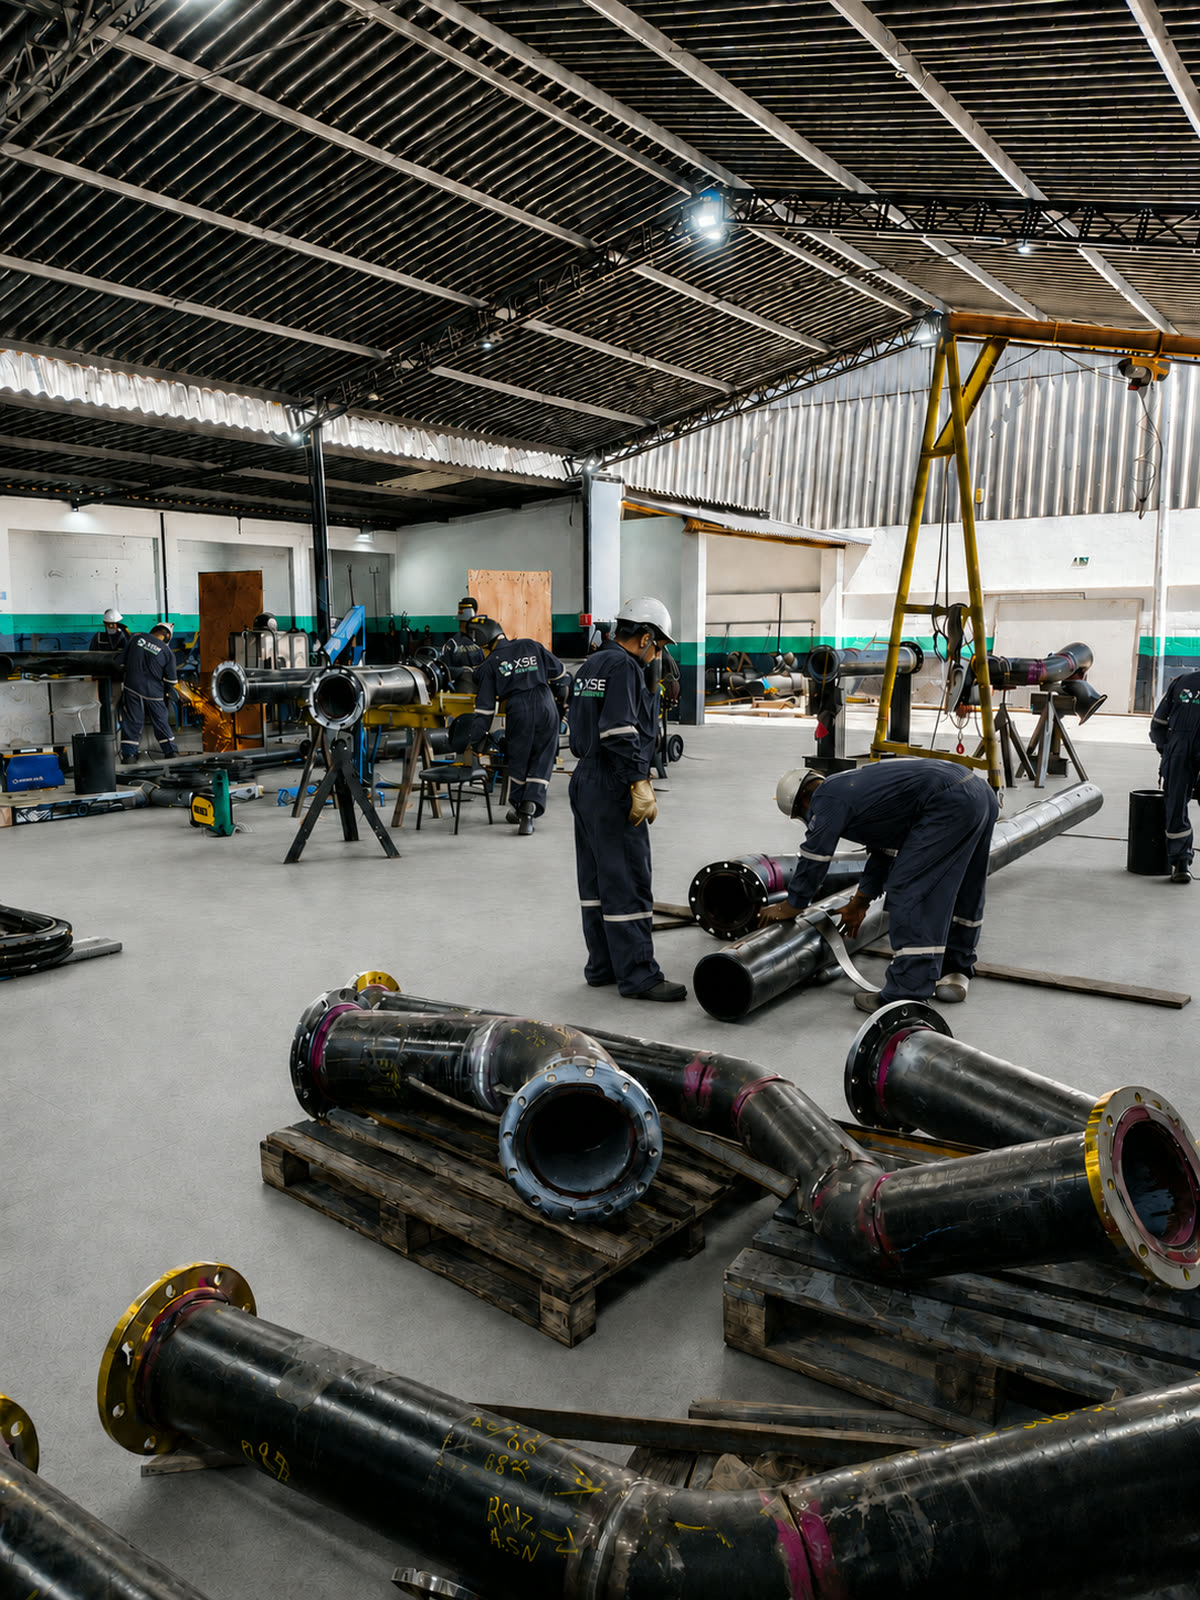
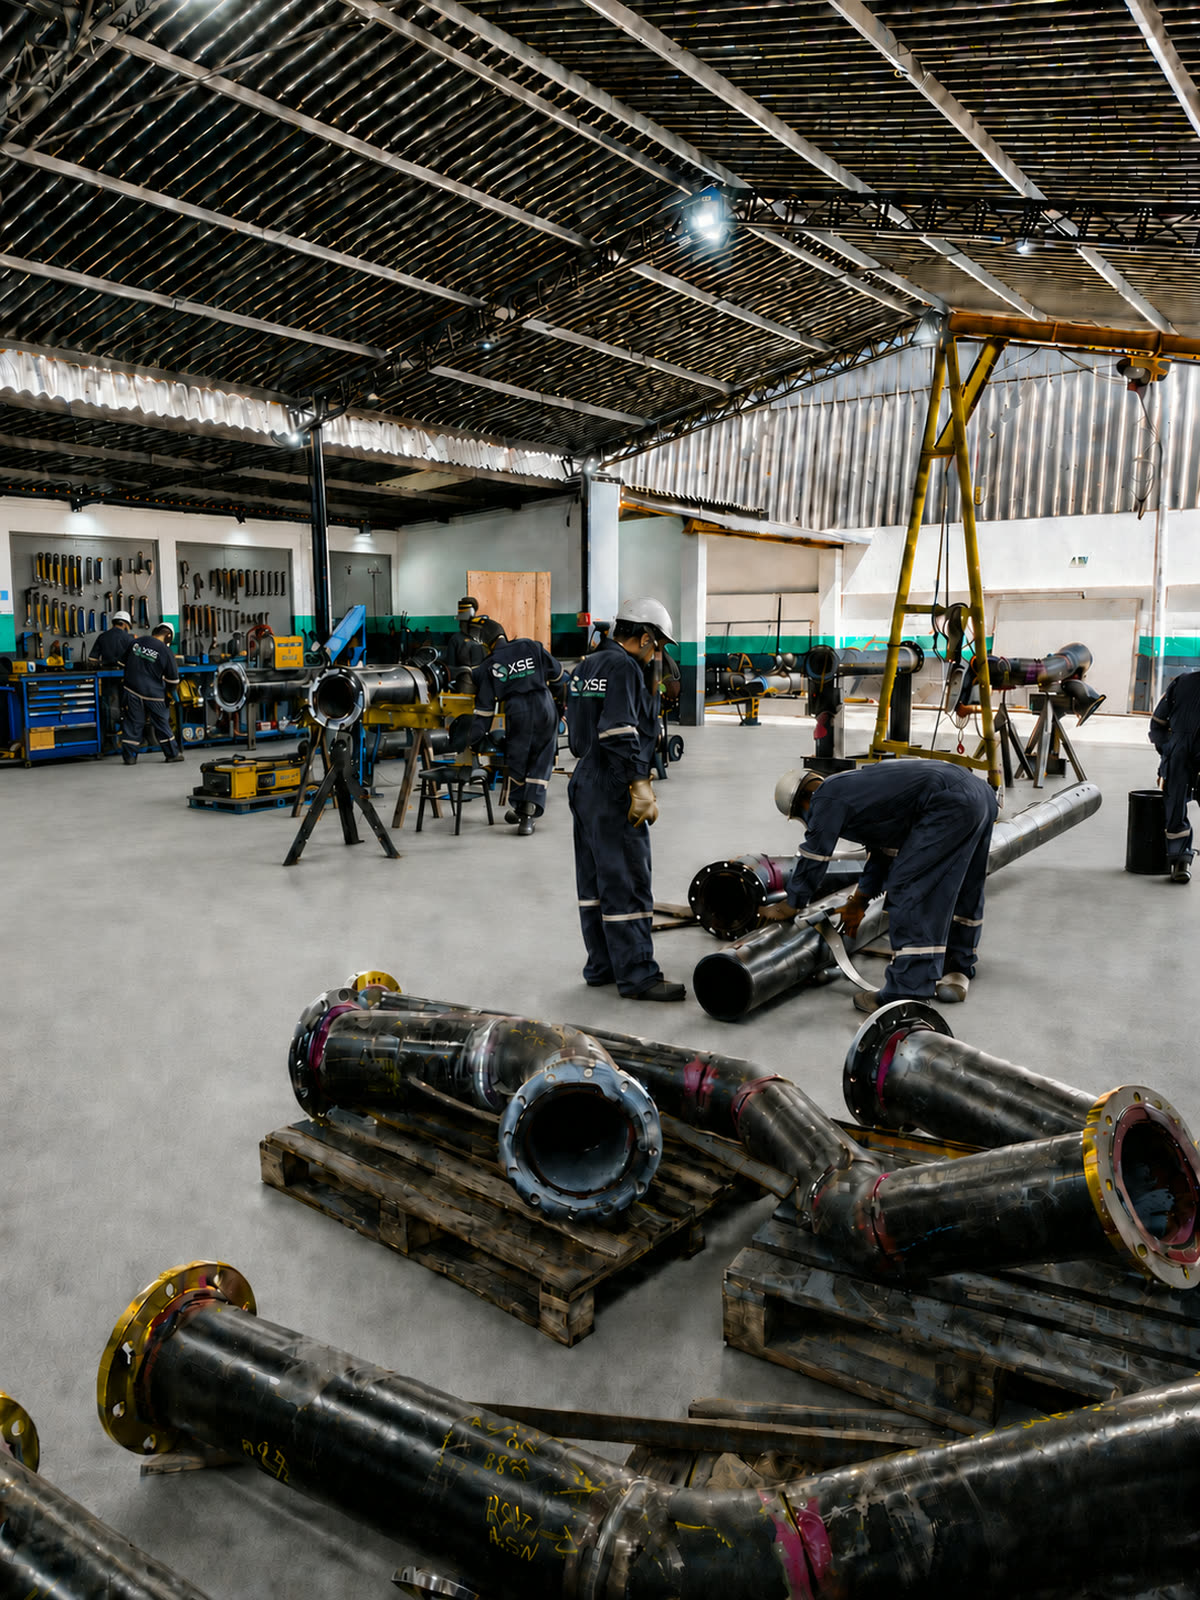
Nova versao da foto da oficina e retirada do peso na descricao da Overload Line

diff --git a/index.html b/index.html
@@ -1013,7 +1013,7 @@ body.paused *,body.paused *::before,body.paused *::after{animation-play-state:pa
             <span class="rep-kicker">Fabricação da linha</span>
             <h3>Overload Line</h3>
           </div>
-          <p class="rep-desc">Fabricação e preparação de uma linha de processo com conexões de 10 polegadas e massa aproximada de 900 kg, para aplicação offshore.</p>
+          <p class="rep-desc">Fabricação e preparação de uma linha de processo com conexões de 10 polegadas, para aplicação offshore.</p>
         </header>
         <div class="rep-fotos">
           <figure class="rep-foto" data-cap="Linha de processo montada em cavaletes" data-grupo="Overload Line" tabindex="0" role="button" aria-label="Ampliar: Linha de processo montada em cavaletes">
